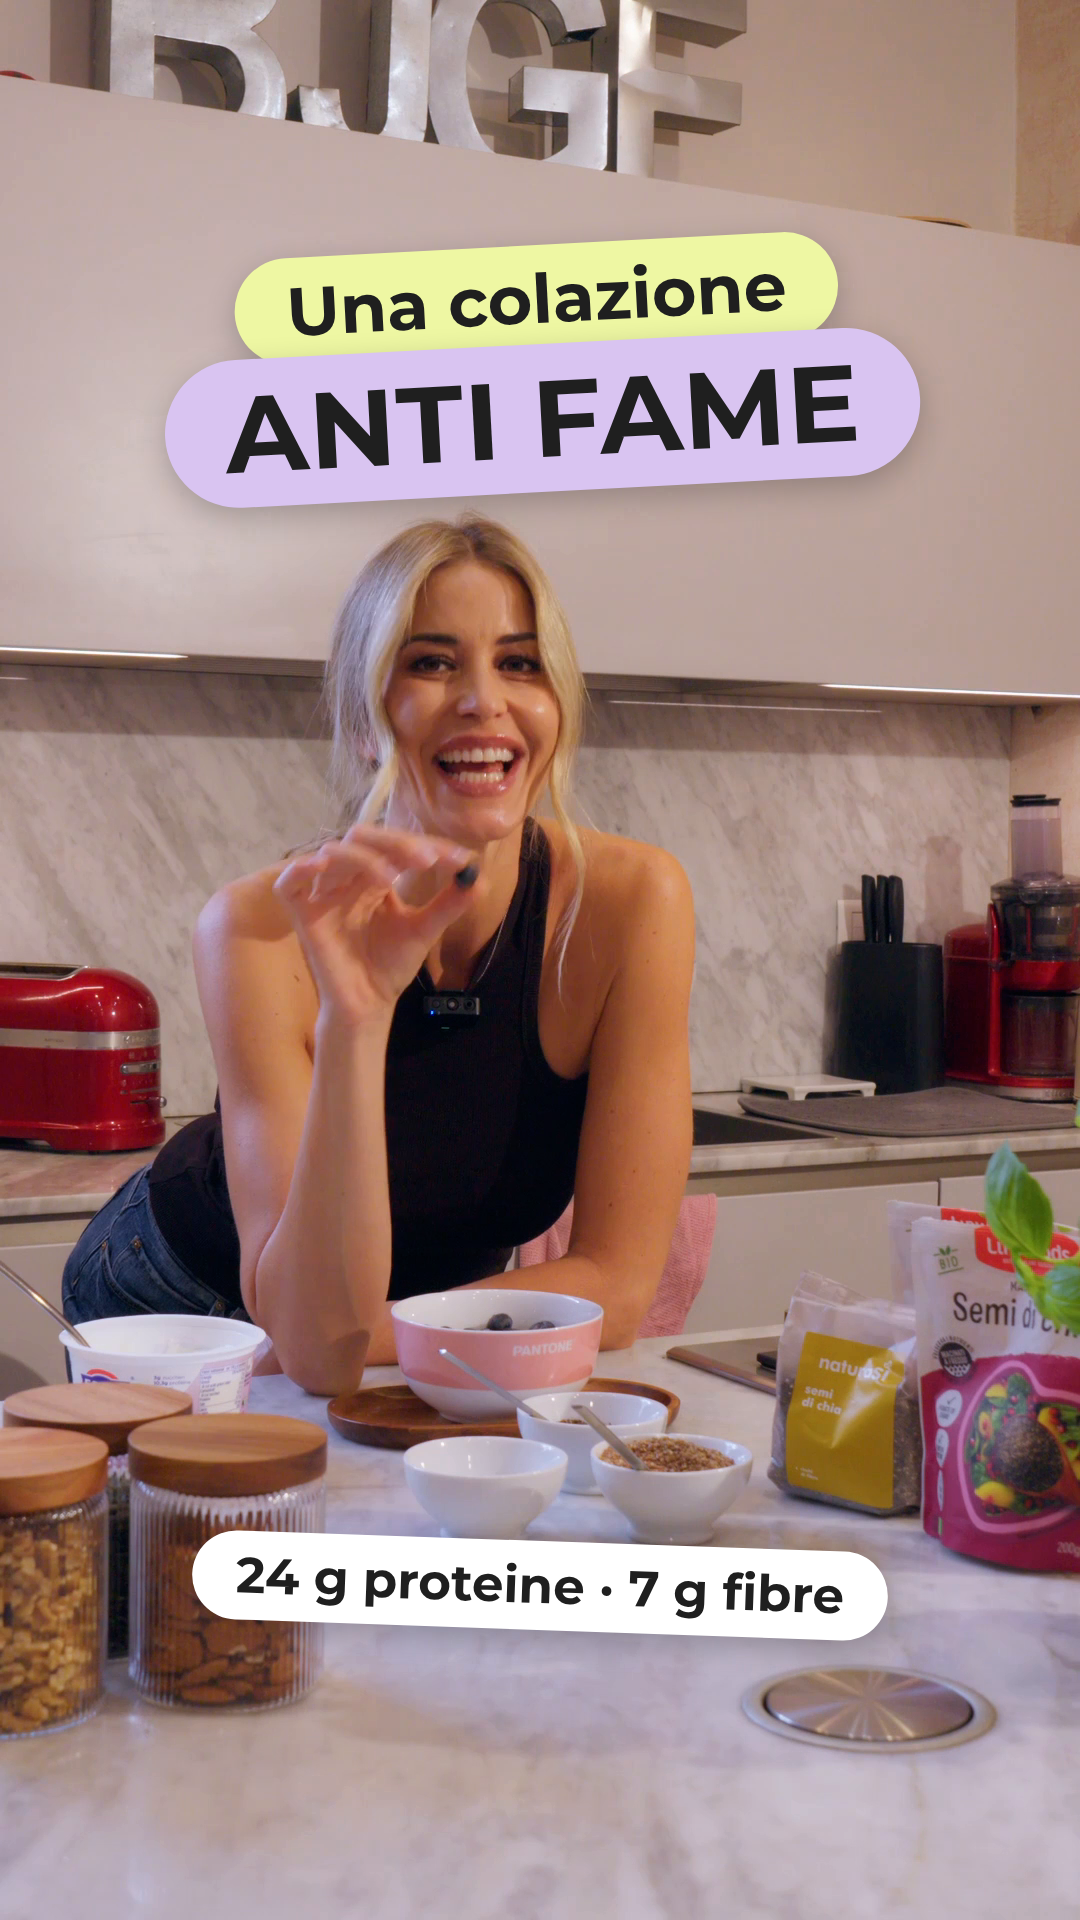
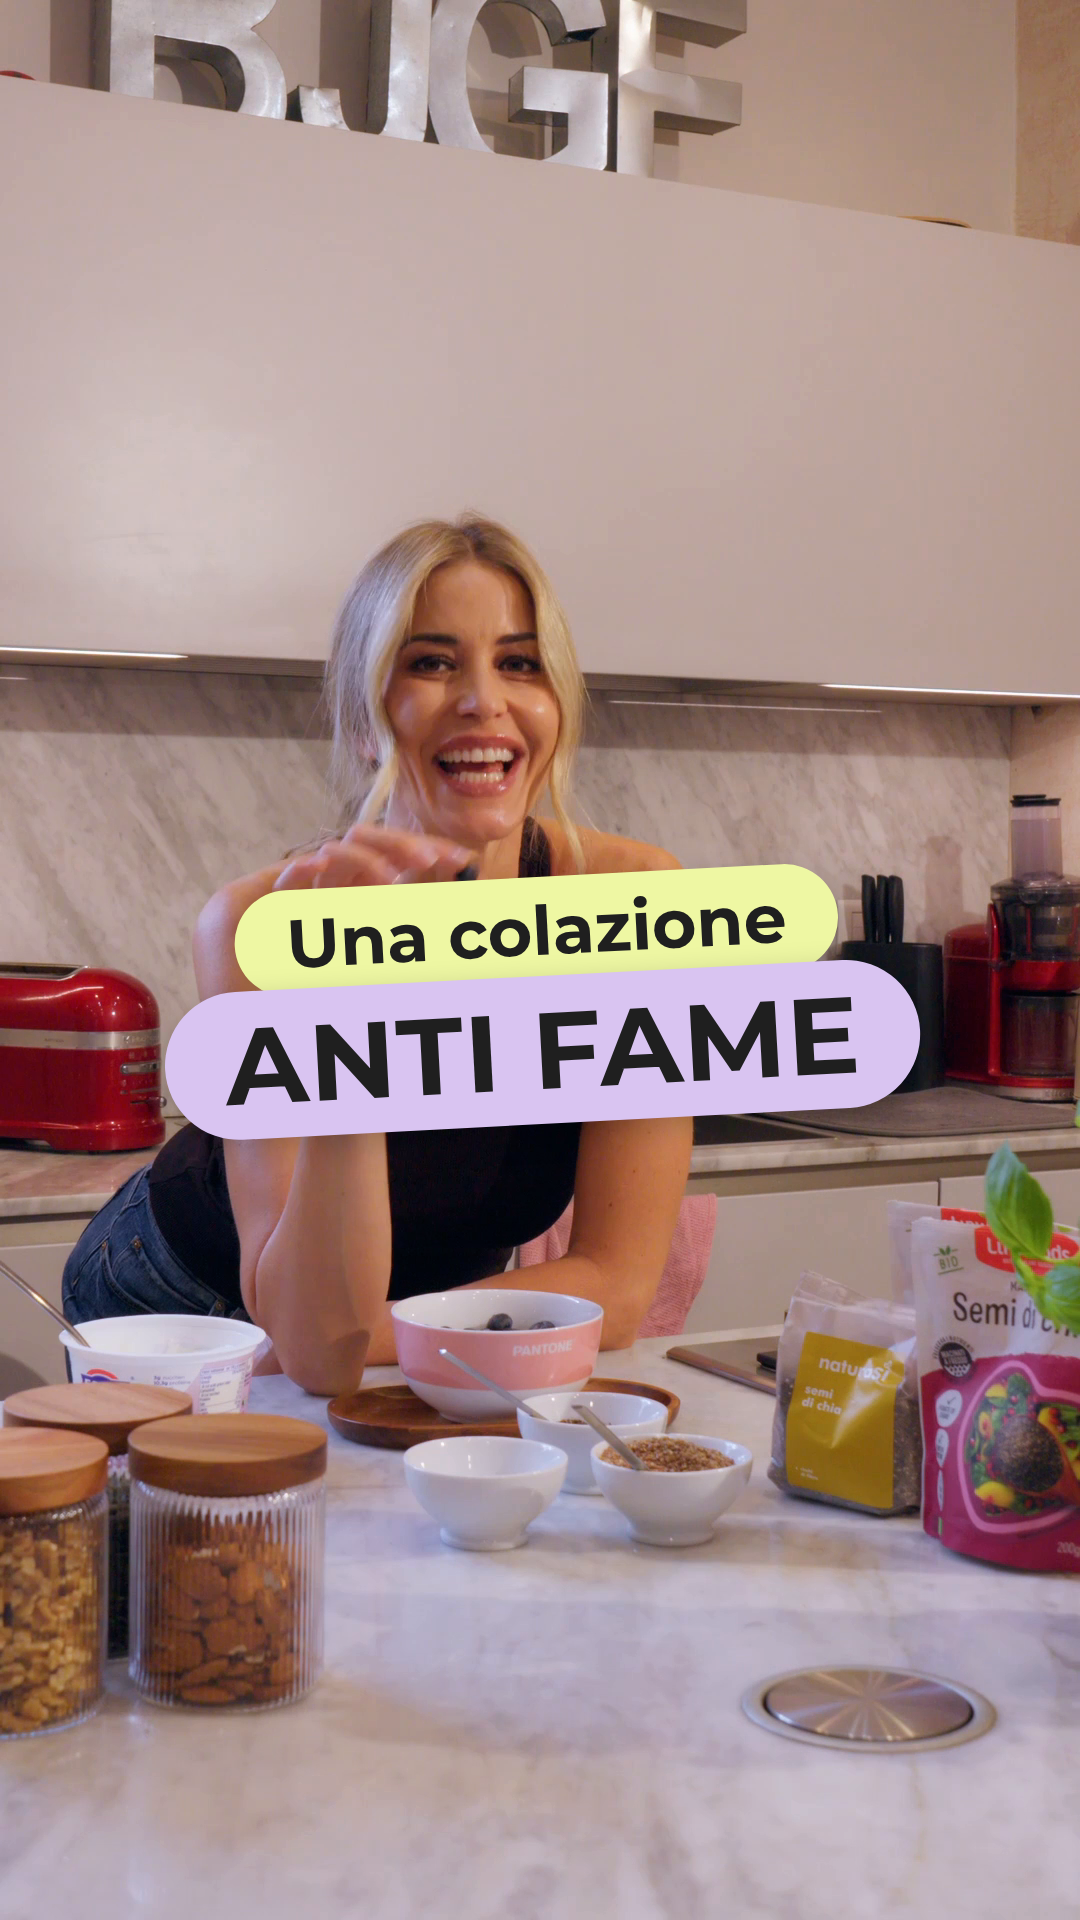
Colazione cover: centred title, no totals
Claude-Session: https://claude.ai/code/session_0137T4JMubY1ECJ8eeHn4dmR

Changed region(s): [[0.1528, 0.0938, 0.8556, 0.2812], [0.1528, 0.4375, 0.8556, 0.5938], [0.1833, 0.7812, 0.825, 0.875]]

diff --git a/src/Colazione/Cover.tsx b/src/Colazione/Cover.tsx
@@ -3,9 +3,7 @@ import { sans } from "../PilatesReformer/theme";
 
 // Reel cover for "Una colazione anti fame": the frame where she laughs with
 // a blueberry (public/cover/colazione.png, colazione.mp4 at 46.5 s), the
-// same pill stickers as the video hook on the empty wall above her head, and
-// the totals on the table. Everything inside the centre 3:4 area kept by
-// the profile grid, clear of her face.
+// same pill stickers as the video hook in the centre, under her face.
 
 const pill: React.CSSProperties = {
   display: "inline-block",
@@ -23,7 +21,9 @@ export const ColazioneCover: React.FC = () => (
       src={staticFile("cover/colazione.png")}
       style={{ width: "100%", height: "100%", objectFit: "cover" }}
     />
-    <AbsoluteFill style={{ alignItems: "center", paddingTop: 245 }}>
+    <AbsoluteFill
+      style={{ alignItems: "center", justifyContent: "center", paddingTop: 80 }}
+    >
       <div
         style={{
           display: "flex",
@@ -54,25 +54,6 @@ export const ColazioneCover: React.FC = () => (
         >
           ANTI FAME
         </div>
-      </div>
-    </AbsoluteFill>
-    <AbsoluteFill
-      style={{
-        alignItems: "center",
-        justifyContent: "flex-end",
-        paddingBottom: 290,
-      }}
-    >
-      <div
-        style={{
-          ...pill,
-          background: "white",
-          fontSize: 50,
-          padding: "14px 44px",
-          transform: "rotate(2deg)",
-        }}
-      >
-        24 g proteine · 7 g fibre
       </div>
     </AbsoluteFill>
   </AbsoluteFill>
